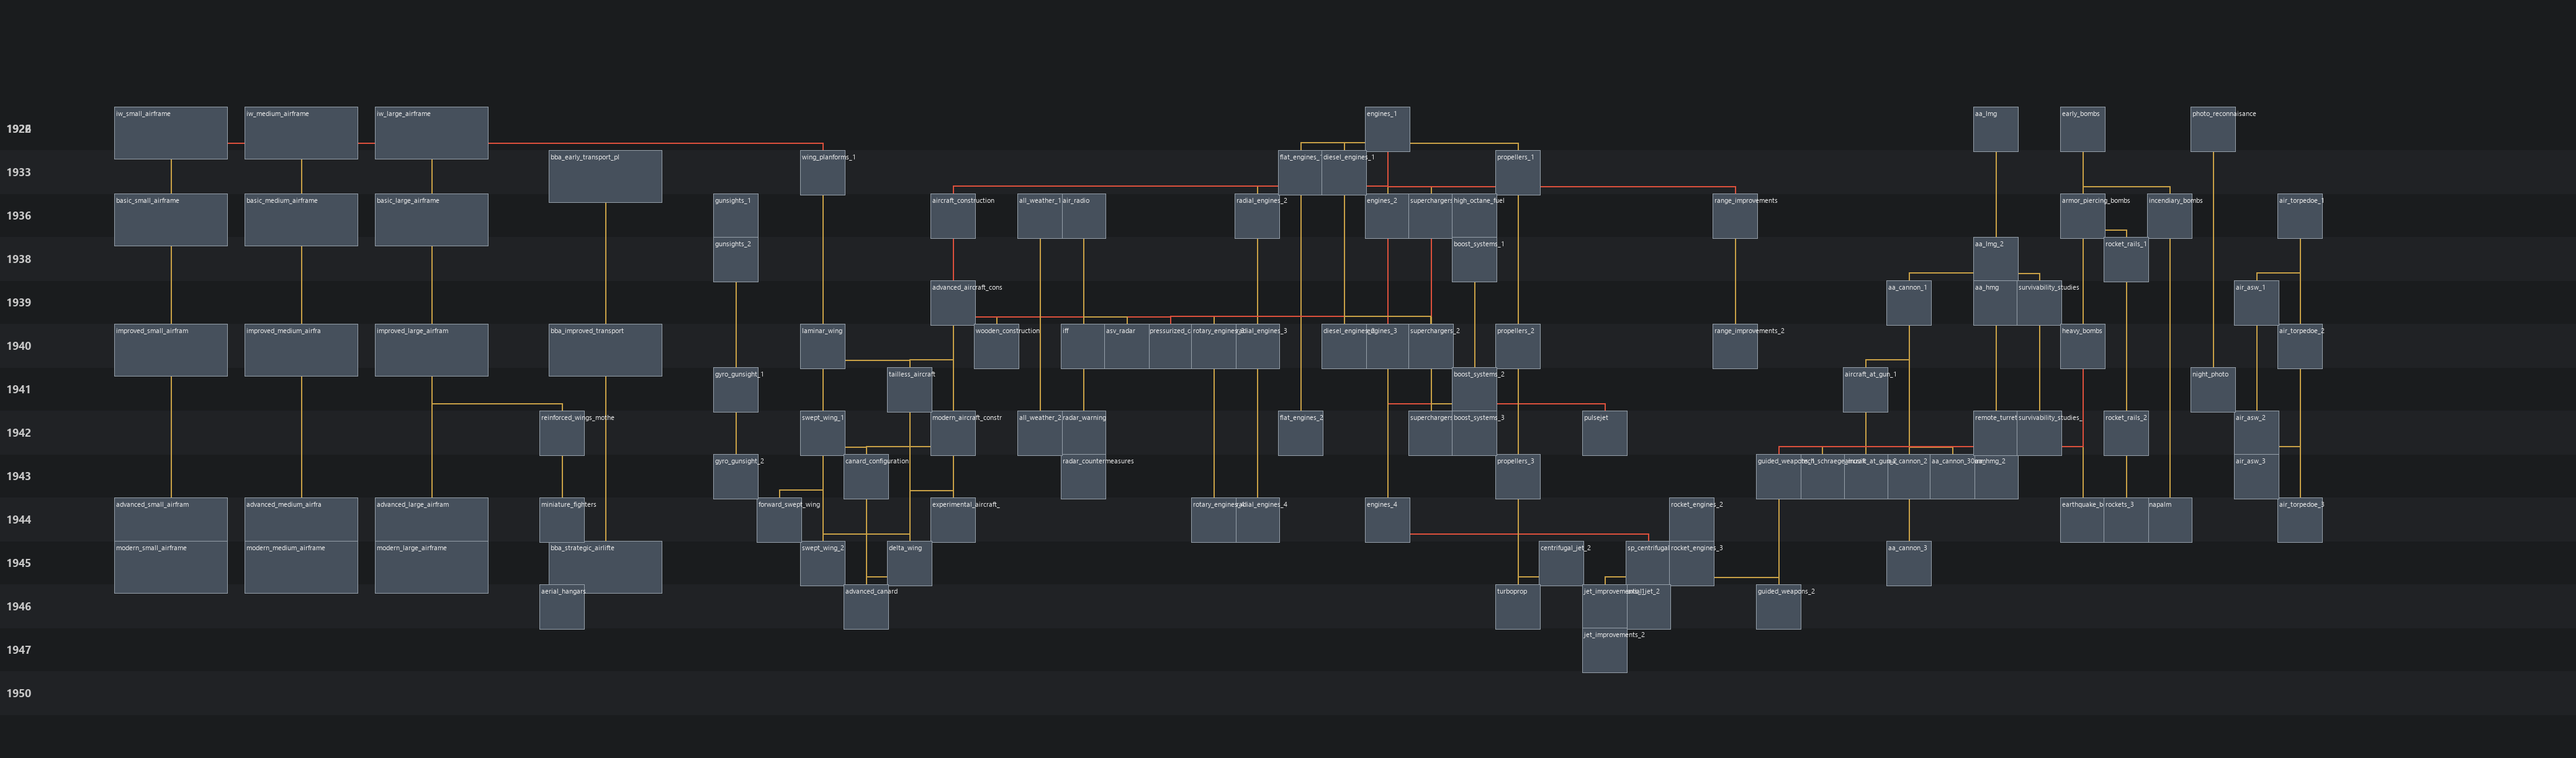
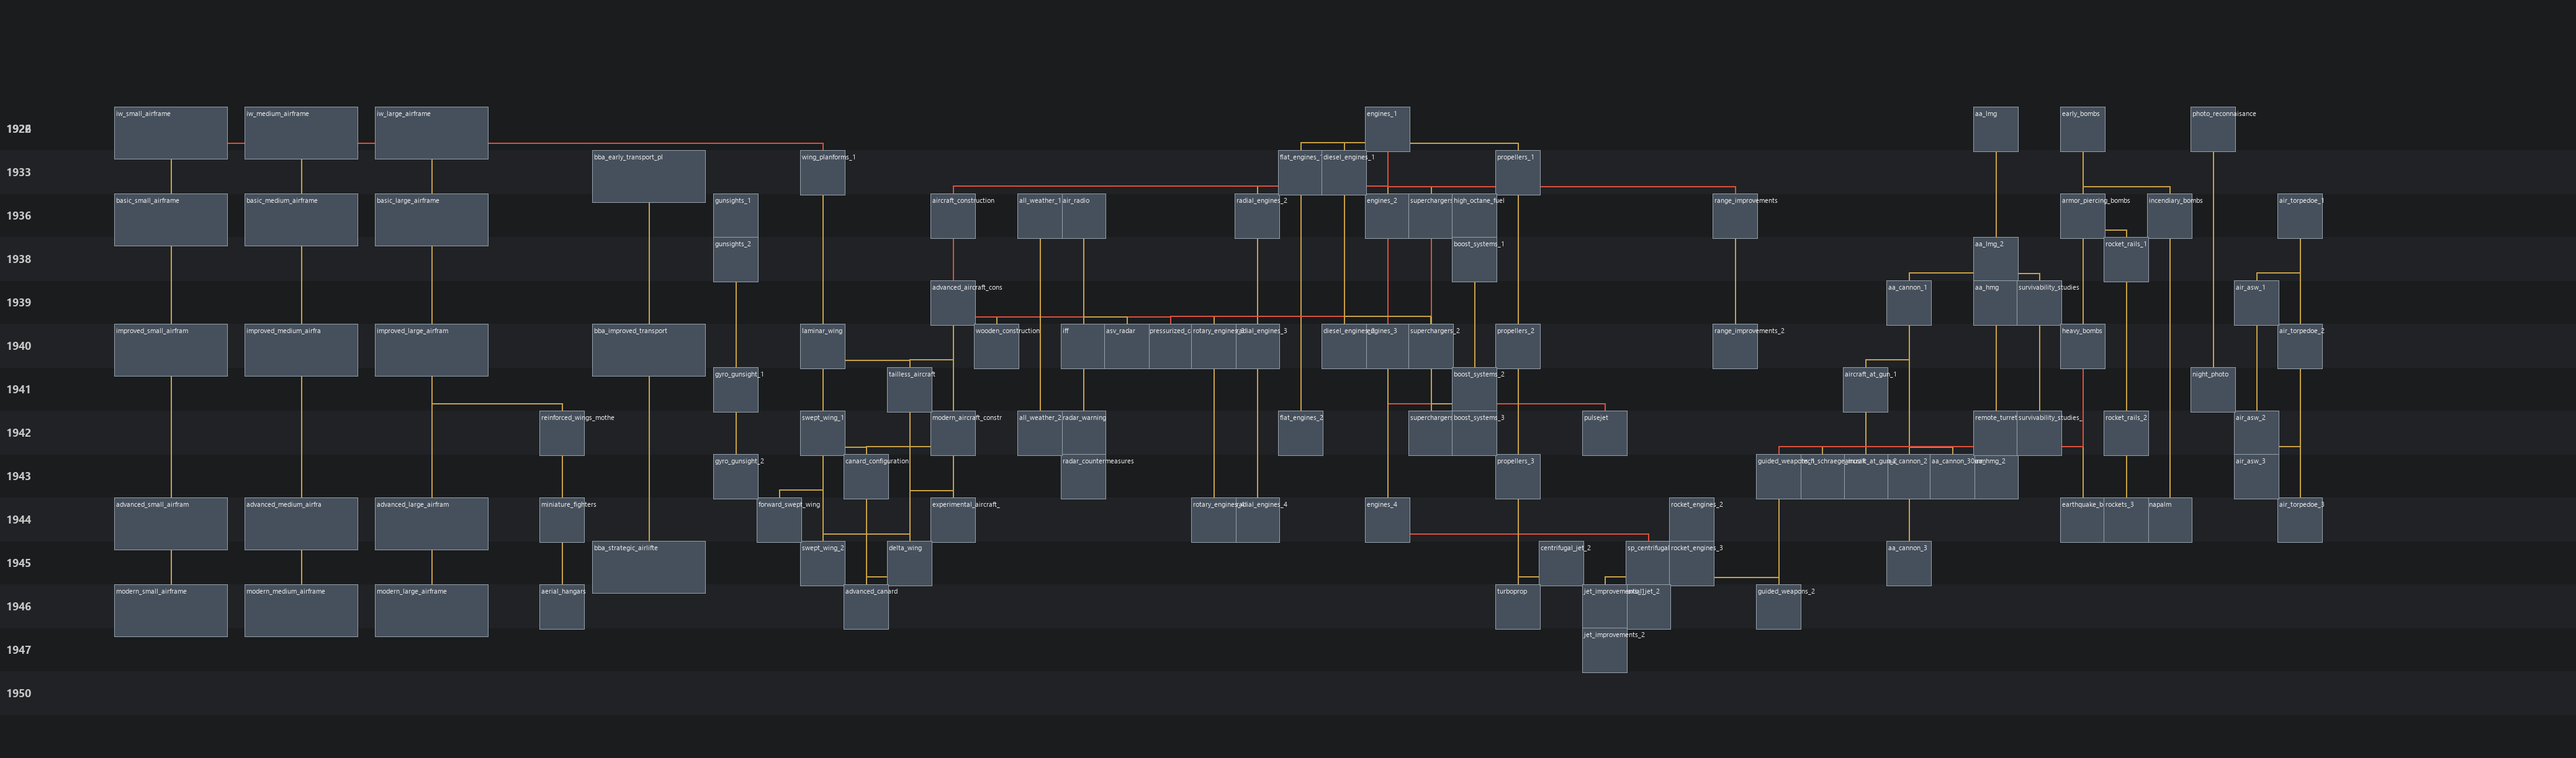
Onglet Aviation : grandes cases espacées (cellules « Modern » d'une ligne plus bas), transport en colonne 11

Changed region(s): [[0.0311, 0.7152, 0.2798, 0.8396], [0.1865, 0.4043, 0.2798, 0.4975], [0.1865, 0.1866, 0.2798, 0.2799]]

diff --git a/scripts/gen_techs.py b/scripts/gen_techs.py
@@ -47,12 +47,43 @@ def children():
     return ch
 
 
+def _vanilla_years():
+    """Année des techs vanilla gardées hors de l'arbre du mod (cellules), lue dans HOI4-ref."""
+    src = (Path("F:/Github Local/HOI4-ref") / "common/technologies/bba_air_techs.txt").read_text(encoding="utf-8-sig")
+    out = {}
+    for m in re.finditer(r"(?m)^\t(\w+) = \{", src):
+        y = re.search(r"start_year\s*=\s*(\d+)", src[m.end():m.end() + 3000])
+        if y:
+            out[m[1]] = int(y[1])
+    return out
+
+
+def _rows():
+    """Ligne de chaque tech : celle de son année, sauf sous une grande case (cellules, transport) qui
+    déborde de sa ligne : la tech suivante de la colonne descend alors d'une ligne de plus."""
+    years = _vanilla_years()
+    years.update({k: v["year"] for k, v in TECHS.items()})
+    rows = {}
+    for col, techs in T.TECH_COLUMNS.items():
+        big = col in T.TECH_BIG_COLUMNS
+        placed = sorted((T.TECH_ROWS[years[t]], i, t) for i, t in enumerate(techs) if years.get(t) in T.TECH_ROWS)
+        last = None
+        for row, _, t in placed:
+            if last is not None:
+                row = max(row, last + (2 if big else 1))
+            rows[t] = last = row
+    return rows
+
+
+ROWS = _rows()
+
+
 def position(tech, year):
     if tech not in COLUMN_OF:
         raise G.GenError(f"{tech} : pas de colonne dans TECH_COLUMNS")
     if year not in T.TECH_ROWS:
         raise G.GenError(f"{tech} : année {year} sans ligne dans TECH_ROWS")
-    return COLUMN_OF[tech], T.TECH_ROWS[year]
+    return COLUMN_OF[tech], ROWS.get(tech, T.TECH_ROWS[year])
 
 
 def cost_text(t):

diff --git a/scripts/gen_mod_table.py b/scripts/gen_mod_table.py
@@ -207,7 +207,7 @@ TECH_COLUMNS = {
     3: ["iw_medium_airframe", "basic_medium_airframe", "improved_medium_airframe", "advanced_medium_airframe", "modern_medium_airframe"],
     6: ["iw_large_airframe", "basic_large_airframe", "improved_large_airframe", "advanced_large_airframe", "modern_large_airframe"],
     9: ["reinforced_wings_mothership", "miniature_fighters", "aerial_hangars"],
-    10: ["bba_early_transport_plane", "bba_improved_transport_plane", "bba_strategic_airlifter"],
+    11: ["bba_early_transport_plane", "bba_improved_transport_plane", "bba_strategic_airlifter"],   # 11 : sa grande case ne touche plus celles de la colonne 9
     # Cellule et équipements : électronique, voilure, construction
     13: ["zv_gunsights_1", "zv_gunsights_2", "zv_gyro_gunsight_1", "zv_gyro_gunsight_2"],
     14: ["zv_forward_swept_wing"],
@@ -250,6 +250,9 @@ TECH_COLUMNS = {
     49: ["air_torpedoe_1", "air_torpedoe_2", "air_torpedoe_3"],
 }
 TECH_LAST_COLUMN = 51
+# Colonnes à grandes cases (183×84 : cellules et transport). Une grande case dépasse sa ligne de 14 px :
+# la tech suivante de la colonne descend d'une ligne de plus (Florian, 24/10 : « même si l'année affichée change »).
+TECH_BIG_COLUMNS = {0, 3, 6, 11}
 # Année -> ligne de l'onglet (70 px par ligne, gridbox à y = 32 ; vanilla : 1933 = 2, 1936 = 4).
 TECH_ROWS = {1922: 2, 1926: 2, 1933: 3, 1936: 4, 1938: 5, 1939: 6, 1940: 7, 1941: 8, 1942: 9,
              1943: 10, 1944: 11, 1945: 12, 1946: 13, 1947: 14, 1950: 15}
